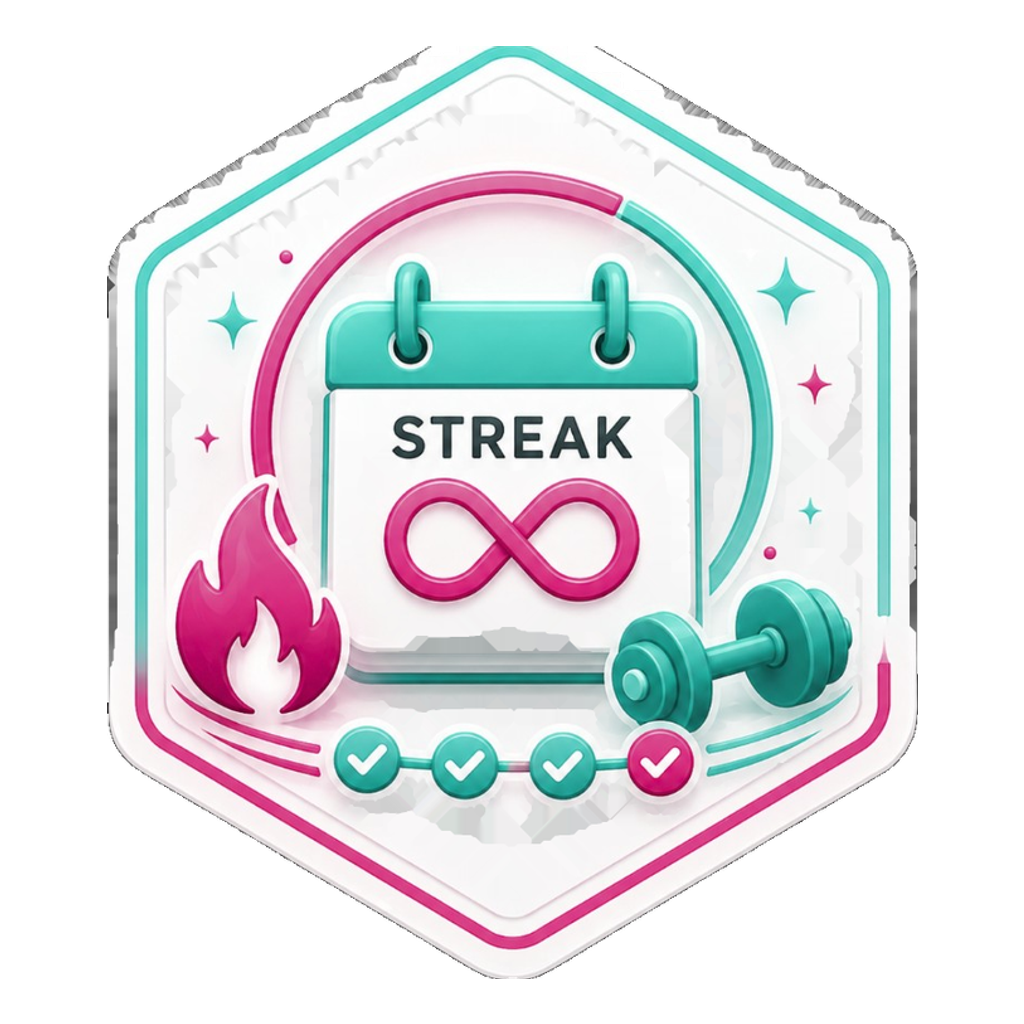
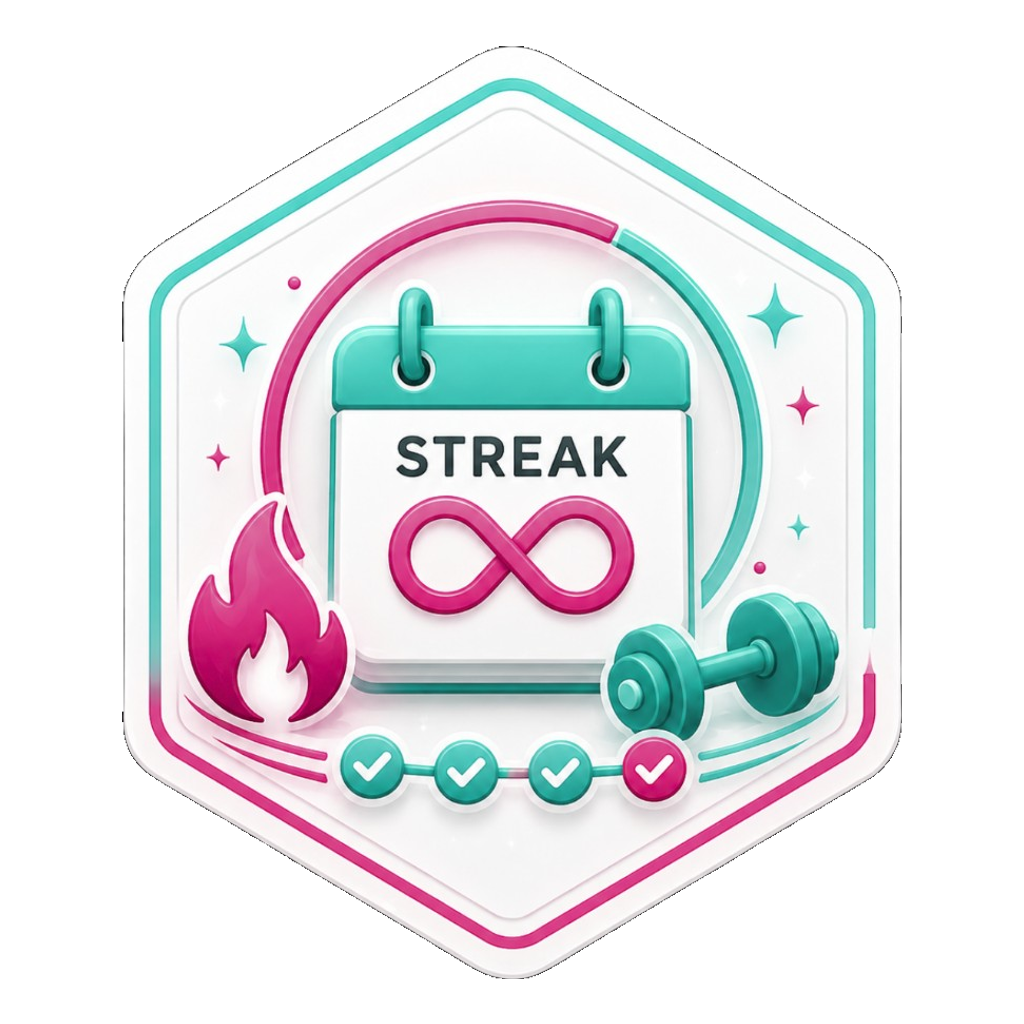
Fix Streak and Treningsdager hex edge transparency
Re-export with black-edge-only stripping to preserve white hex borders.

diff --git a/src/app/badgeAssets.ts b/src/app/badgeAssets.ts
@@ -1,5 +1,5 @@
 /** Felles badge-bilder (PNG 1024×1024, normalisert visuell størrelse). */
-export const BADGE_ASSET_VERSION = "32";
+export const BADGE_ASSET_VERSION = "33";
 
 export function badgeAssetUrl(path: string): string {
   const base = path.split("?")[0] || path;
